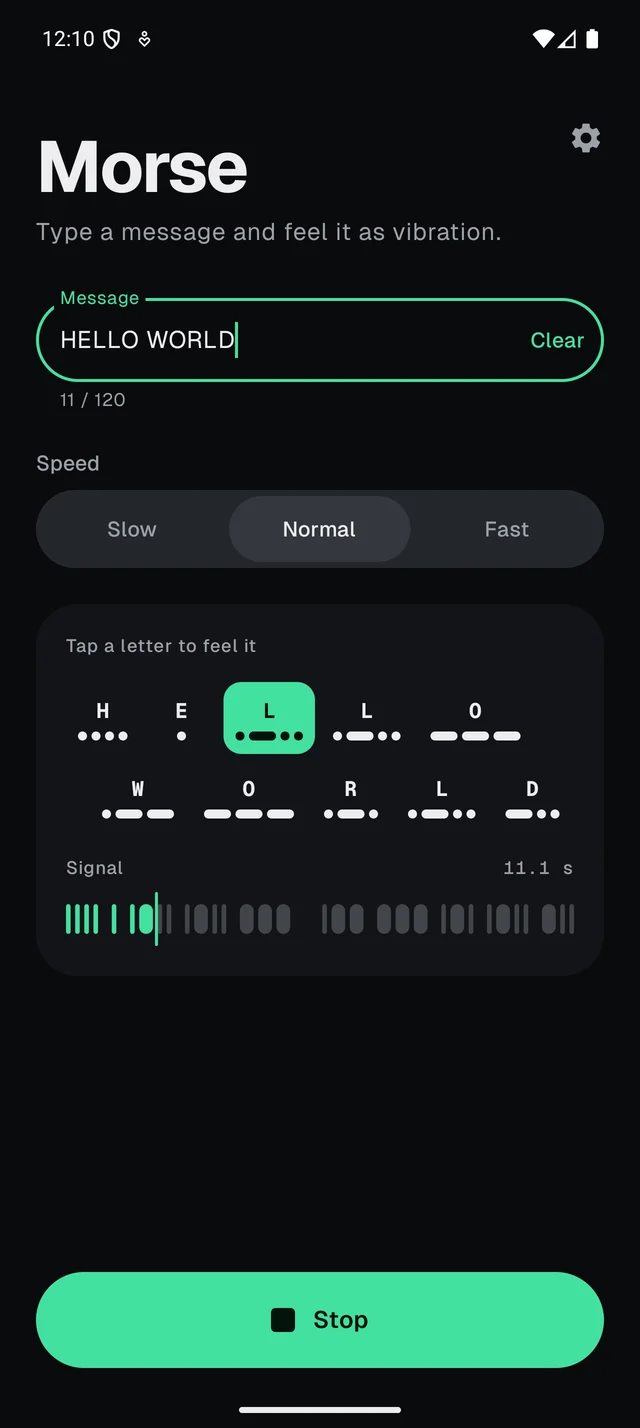
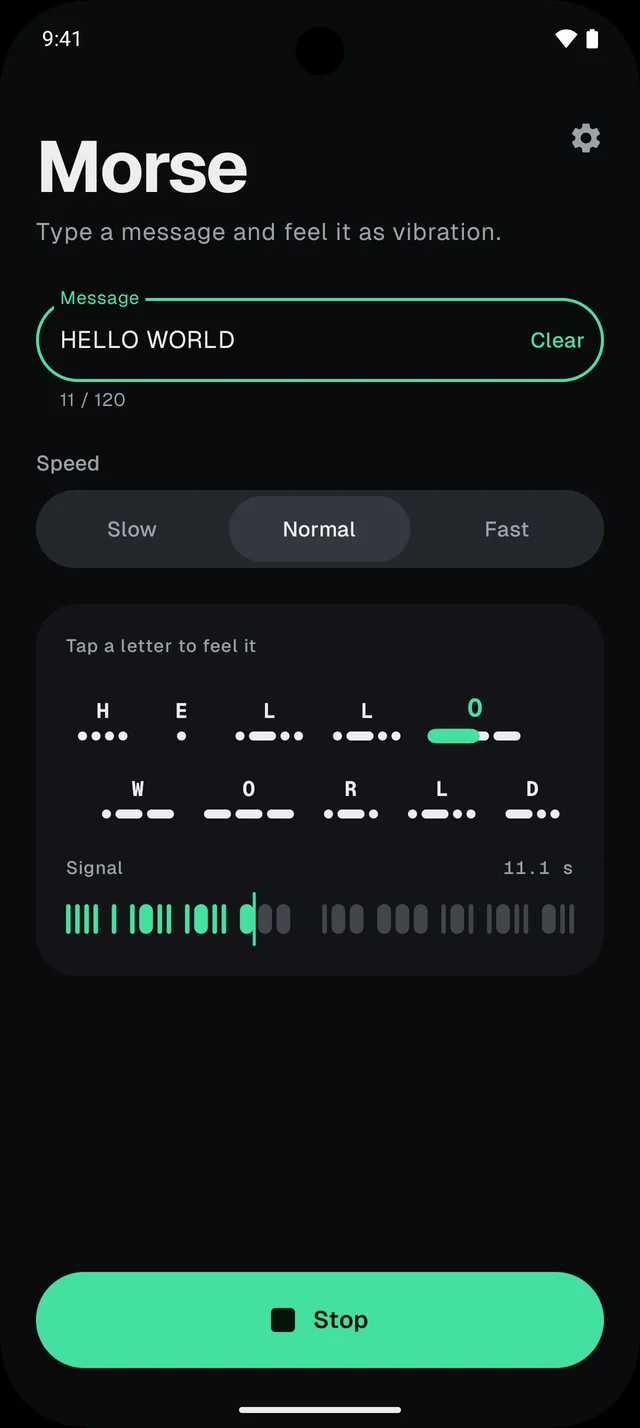
Use the final app screenshots with the liquid highlight

diff --git a/src/app/page.tsx b/src/app/page.tsx
@@ -53,7 +53,7 @@ export default function Home() {
               </div>
             </Reveal>
             <Reveal delay={0.1} className="mx-auto w-full max-w-[320px]">
-              <Phone src="/shots/play-dark.webp" alt="Morse Code playing HELLO WORLD: the current letter glows mint and a playhead sweeps the signal waveform" />
+              <Phone src="/shots/play-dark.webp" alt="Morse Code playing HELLO WORLD: a mint highlight flows over the current dash and a playhead sweeps the signal waveform" />
             </Reveal>
           </div>
         </section>
@@ -87,7 +87,7 @@ export default function Home() {
                   </p>
                 </div>
                 <div className="mt-8 md:mt-0 md:w-1/2">
-                  <Phone src="/shots/play-dark.webp" alt="" className="mx-auto max-w-[220px] md:translate-y-10" />
+                  <Phone src="/shots/type-dark.webp" alt="" className="mx-auto max-w-[220px] md:translate-y-10" />
                 </div>
               </article>
             </Reveal>
